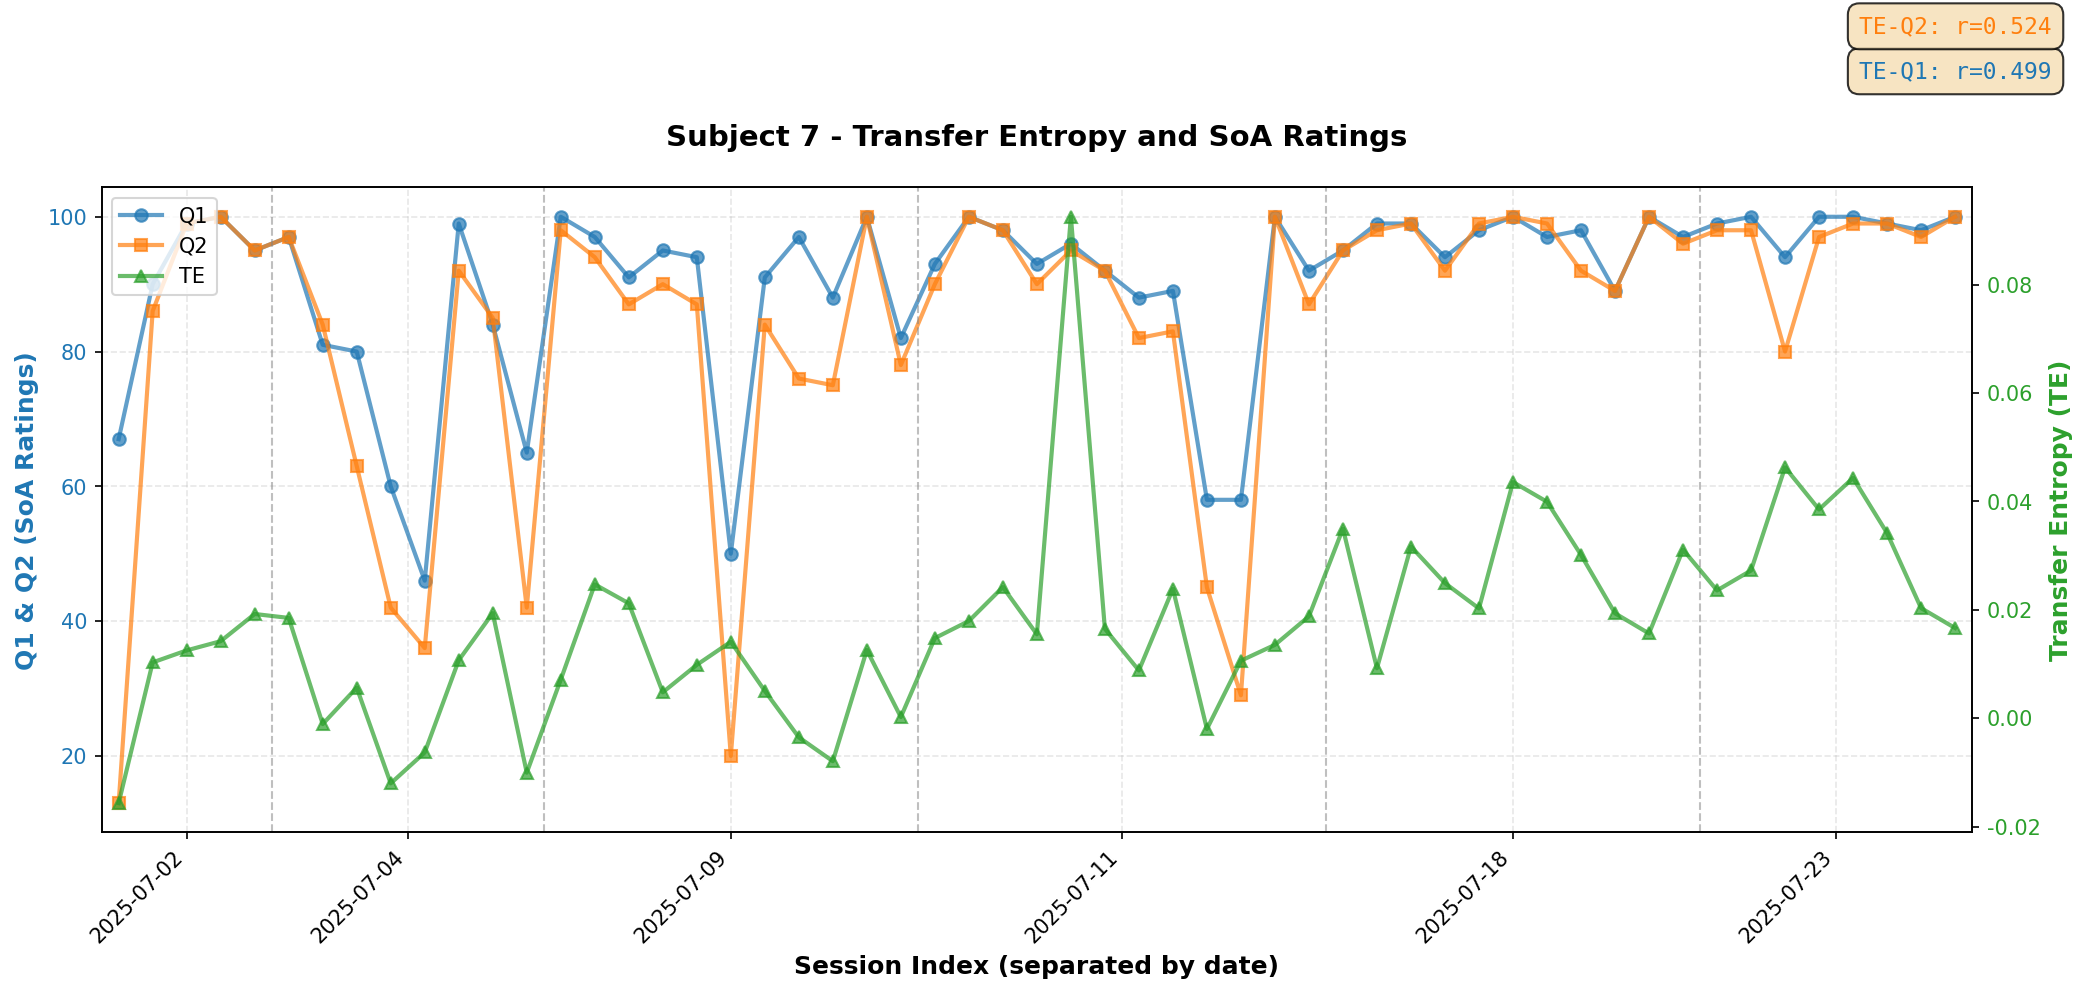
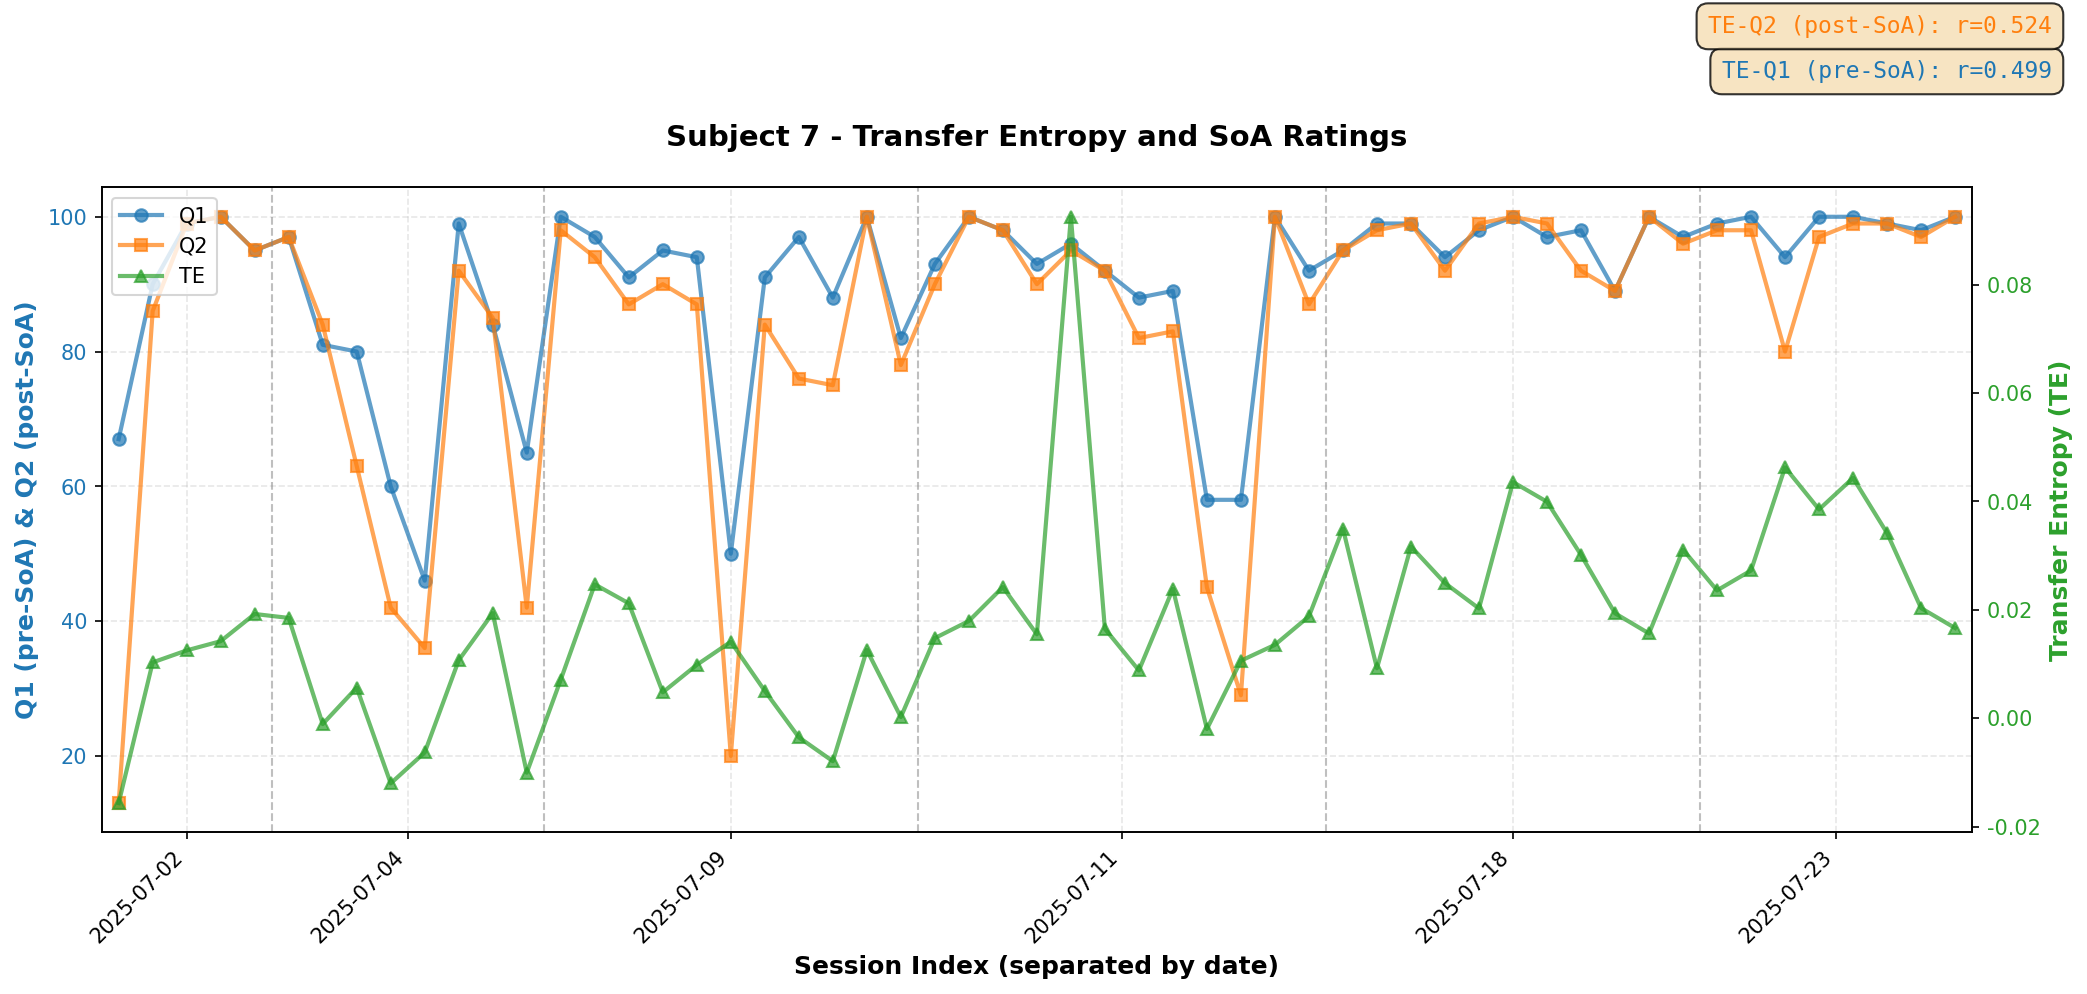
Update SoA terminology in analysis scripts and report to clarify Q1 as pre-SoA and Q2 as post-SoA ratings. Adjusted print statements, plot labels, and report content accordingly for consistency.

Changed region(s): [[0.8098, 0.0, 0.9966, 0.0936], [0.0, 0.3119, 0.0311, 0.7173]]

diff --git a/src/ana_20251101/plot_TE_by_subject.py b/src/ana_20251101/plot_TE_by_subject.py
@@ -3,7 +3,7 @@ Plot Transfer Entropy (TE), Q1, and Q2 grouped by subject.
 
 For each subject, creates a plot showing:
 - TE values over time (dates)
-- Q1 and Q2 SoA ratings over time
+- Q1 (pre-SoA) and Q2 (post-SoA) ratings over time
 - Vertical lines separating different dates
 """
 import pandas as pd
@@ -138,7 +138,7 @@ def plot_subject_data(df: pd.DataFrame, subject: str, save_dir: Path = None, sho
     
     # Set labels and title
     ax1.set_xlabel('Session Index (separated by date)', fontsize=12, fontweight='bold')
-    ax1.set_ylabel('Q1 & Q2 (SoA Ratings)', fontsize=12, fontweight='bold', color='tab:blue')
+    ax1.set_ylabel('Q1 (pre-SoA) & Q2 (post-SoA)', fontsize=12, fontweight='bold', color='tab:blue')
     ax2.set_ylabel('Transfer Entropy (TE)', fontsize=12, fontweight='bold', color='tab:green')
     
     # Color the y-axis labels
@@ -197,9 +197,9 @@ def plot_subject_data(df: pd.DataFrame, subject: str, save_dir: Path = None, sho
         y_position = 1.02  # Above the axes (1.0 is top of axes)
         
         if 'Q1' in correlations:
-            # Q1 correlation with blue color for label
+            # Q1 (pre-SoA) correlation with blue color for label
             fig.text(0.98, y_position, 
-                    f"TE-Q1: r={correlations['Q1']:.3f}", 
+                    f"TE-Q1 (pre-SoA): r={correlations['Q1']:.3f}", 
                     fontsize=11,
                     verticalalignment='bottom',
                     horizontalalignment='right',
@@ -210,9 +210,9 @@ def plot_subject_data(df: pd.DataFrame, subject: str, save_dir: Path = None, sho
             y_position += 0.05
         
         if 'Q2' in correlations:
-            # Q2 correlation with orange color for label
+            # Q2 (post-SoA) correlation with orange color for label
             fig.text(0.98, y_position, 
-                    f"TE-Q2: r={correlations['Q2']:.3f}", 
+                    f"TE-Q2 (post-SoA): r={correlations['Q2']:.3f}", 
                     fontsize=11,
                     verticalalignment='bottom',
                     horizontalalignment='right',

diff --git a/src/ana_20251101/load_TE_results.py b/src/ana_20251101/load_TE_results.py
@@ -111,7 +111,7 @@ def explore_results(df: pd.DataFrame):
     
     # SoA statistics (if available)
     if 'Q1' in df.columns:
-        print("\nSoA Q1 Statistics:")
+        print("\nSoA Q1 (pre-SoA) Statistics:")
         q1_valid = df['Q1'].dropna()
         print(f"  Valid Q1 values: {len(q1_valid)} / {len(df)}")
         print(f"  Mean: {q1_valid.mean():.2f}")
@@ -119,7 +119,7 @@ def explore_results(df: pd.DataFrame):
         print(f"  Range: {q1_valid.min():.0f} - {q1_valid.max():.0f}")
     
     if 'Q2' in df.columns:
-        print("\nSoA Q2 Statistics:")
+        print("\nSoA Q2 (post-SoA) Statistics:")
         q2_valid = df['Q2'].dropna()
         print(f"  Valid Q2 values: {len(q2_valid)} / {len(df)}")
         print(f"  Mean: {q2_valid.mean():.2f}")

diff --git a/src/ana_20251101/report.md b/src/ana_20251101/report.md
@@ -20,9 +20,9 @@ This report presents an analysis of Transfer Entropy (TE) in drum performance da
 - **Preprocessing**: Signal smoothing using impulse response convolution and onset detection
 
 **Sense of Agency Measurement:**
-- **Q1**: Achievement level rating (0-100)
-- **Q2**: Sense of agency rating (0-100)
-- Collected via questionnaire after each practice session
+- **Q1**: Pre-SoA rating (0-100) - Sense of Agency rating before practice session
+- **Q2**: Post-SoA rating (0-100) - Sense of Agency rating after practice session
+- Collected via questionnaire
 
 **Data Quality:**
 - Only sessions with complete data (both NI sensor data and SoA ratings) were included
@@ -40,8 +40,8 @@ Each subject has a dedicated plot showing the temporal progression of TE, Q1, an
   - Right axis (green): Transfer Entropy values (typically 0.00-0.05)
   
 - **Data Series**:
-  - **Q1** (blue circles): Achievement level ratings over time
-  - **Q2** (orange squares): Sense of agency ratings over time  
+  - **Q1** (blue circles): Pre-SoA ratings over time
+  - **Q2** (orange squares): Post-SoA ratings over time  
   - **TE** (green triangles): Transfer Entropy values over time
 
 - **X-Axis**:
@@ -88,7 +88,7 @@ Correlation coefficients between Transfer Entropy and SoA ratings were computed 
 
 Contrary to initial predictions, the analysis reveals that Transfer Entropy tracks Sense of Agency ratings (Q1 and Q2) surprisingly well. The data shows a consistent pattern:
 
-1. **Parallel Increases**: Both Q1/Q2 and TE increase over time as participants practice
+1. **Parallel Increases**: Both pre-SoA (Q1), post-SoA (Q2), and TE increase over time as participants practice
 2. **Positive Relationships**: Despite the prediction that higher TE (indicating stronger coupling to reference) might correspond to lower SoA (less sense of control), the opposite pattern emerges
 3. **Consistent Across Subjects**: The positive relationship is observed across most participants, with moderate to strong correlations (r=0.27-0.57)
 
